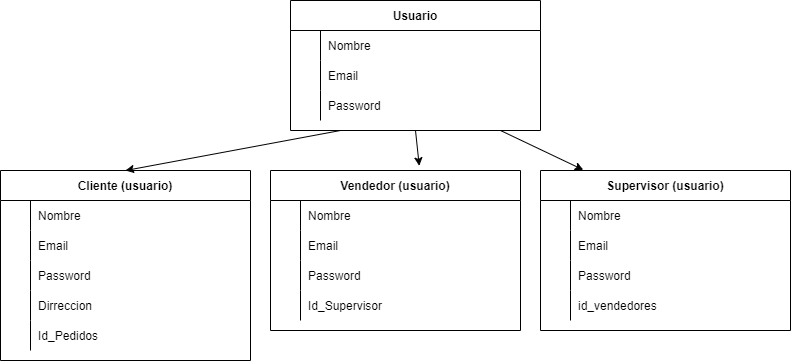
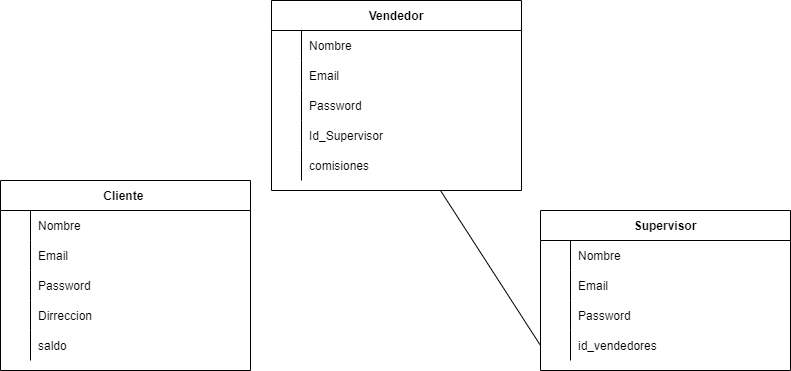
update

diff --git a/Modulo 4/aprendizaje 2/main.py b/Modulo 4/aprendizaje 2/main.py
@@ -1,0 +1,125 @@
+class cliente:
+    def __init__(self, nombre, mail, password, dirrecion, saldo = '0'):
+        self.nombre = nombre
+        self.mail = mail
+        self.password = password
+        self.dirrecion = dirrecion
+        self.saldo = saldo
+    
+    def cambiarDirrecion(self, dirrecion):
+        self.dirrecion = dirrecion
+        print('Dirrecion Cambiada Correctamente')
+
+    def sumarSaldo(self, saldo):
+        self.saldo += saldo
+        print('Saldo Actualizado')
+    
+    def ocuparSaldo(self, monto):
+        if self.saldo >= monto:
+            self.saldo -= monto
+            print('Saldo Descontado')
+            return True
+        else:
+            print('Saldo Insuficiente')
+            return False
+    
+    def __eq__(self, other): ## Basicamente es para que al momento de compararlos si son iguales se vea netamente el correo
+        return self.mail == other.mail
+
+class vendedor:
+    def __init__(self, id_vendedor, nombre, mail, password, id_supervisor):
+        self.id_vendedor = id_vendedor
+        self.nombre = nombre
+        self.mail = mail,
+        self.password = password
+        self.id_supervisor = id_supervisor
+        self.comision = 0
+        self.cant_Ventas = 0
+    
+    def sumarComision(self, monto_Venta):
+        self.comision = monto_Venta*0.02 #Osea el 2%7
+        self.cant_Ventas += 1
+    
+    def changePassword(self, newPassword):
+        self.password = newPassword
+    
+    def cambiarSupervisor(self, id_supervisor):
+        self.id_supervisor = id_supervisor
+
+    def calcularSueldoBruto(self):
+        return 440000 + self.comision + self.cant_Ventas*250
+
+class supervisor:
+    def __init__(self, id_supervisor, nombre, mail, password):
+        self.id_supervisor = id_supervisor
+        self.nombre = nombre
+        self.mail = mail,
+        self.password = password, 
+        self.id_vendedores  = []
+    
+    def asignar_vendedores(self, id_Vendedor):
+        self.id_vendedores.append(id_Vendedor)
+    
+    def rehusar_vendedor(self, id_Vendedor):
+        self.id_vendedores.remove(id_Vendedor)
+        print('Vendedor Removido')
+    
+    def print_id_vendedores(self):
+        for id_vendedores in self.id_vendedores:
+            print(id_vendedores)        
+    
+    def reasignar_vendedor(self, other, id_vendedor): #El self Cede y el other absorve
+        self.rehusar_vendedor(id_vendedor)
+        other.asignar_vendedores(id_vendedor)
+
+
+class producto:
+    def __init__(self, nombre, precio, stock, provedor=''):
+        self.nombre = nombre
+        self.precio = precio
+        self.stock = stock
+        self.provedor = provedor
+        
+    def agregarStock(self, nuevoStock): # se agrega stock y se retorna el nuevo stock
+        self.stock += nuevoStock
+        return self.stock
+    
+    def generarVenta(self, stock_Solicitado):
+        if self.stock >= stock_Solicitado:
+            print('Pedido Confirmado')
+            self.stock -= stock_Solicitado
+            return True
+        else:  
+            print('Stock Insuficiente - Pedido Cancelado')
+            return False
+    
+    def cambiarNombre(self, nuevo_nombre):
+        self.nombre = nuevo_nombre
+        print('Nombre de producto Actualizado.')
+
+    def cambiarProvedor(self, nuevo_provedor):
+        self.provedor = nuevo_provedor
+        print('Provedor Actualizado.')
+
+    def __eq__(self, other):
+        return self.nombre == other.nombre and self.precio == other.precio
+
+
+cliente_a = cliente('juan perez', 'juanito@hot.cl', '123456', 'Por ahi #133')
+cliente_b = cliente('juan peres', 'juanito@hot.cl', '123456789', 'Por ahi #133')
+
+if cliente_a == cliente_b:
+    print('Son iguales ya que tienen el mismo correo')
+else: 
+    print('Son distintos')
+
+vendedor_a = vendedor(1,'Michael Scott', 'michael@dundermifflin.com', '987654321', 1)
+
+vendedor_a.sumarComision(90000)
+print('Sueldo Bruto del vendedor a:', vendedor_a.calcularSueldoBruto())
+
+supervisor_a = supervisor(1,'Dr Simi' , 'simi@simi.cl', 'lomismoperomasbarato')
+supervisor_b = supervisor(1,'Dr ugarte' , 'ugarte@simi.cl', 'laveselasmanos')
+supervisor_a.asignar_vendedores(1)
+
+supervisor_a.reasignar_vendedor(supervisor_b, 1)

diff --git a/Modulo 4/aprendizaje 1/main.py b/Modulo 4/aprendizaje 1/main.py
@@ -1,53 +1,47 @@
-
-class usuario:
-    def __init__(self, nombre, mail, password):
-        self.nombre = nombre
-        self.mail = mail
-        self.password = password
-
-class cliente(usuario):
-    def __init__(self, nombre, mail, password, dirrecion):
+class cliente:
+    def __init__(self, nombre, mail, password, dirrecion, saldo):
         self.nombre = nombre
         self.mail = mail
         self.password = password
         self.dirrecion = dirrecion
-        self.pedidos = []
+        self.saldo = saldo
     
-    def hacerPedidos():
-        #logica interna
-        return True
-
     def cambiarDirrecion(self, dirrecion):
         self.dirrecion = dirrecion
-        return True
-    
-    def anularPedido(self, id_pedido):
-        for pedido in self.pedidos:
-            if pedido['id_pedido'] == id_pedido:
-                pedido.pop()
-                return True
-        return False
+        print('Dirrecion Cambiada Correctamente')
 
-class vendedor(usuario):
+    def sumarSaldo(self, saldo):
+        self.saldo += saldo
+        print('Saldo Actualizado')
+    
+    def ocuparSaldo(self, monto):
+        if self.saldo >= monto:
+            self.saldo -= monto
+            print('Saldo Descontado')
+            return True
+        else:
+            print('Saldo Insuficiente')
+            return False
+        
+
+class vendedor:
     def __init__(self, nombre, mail, password, id_supervisor):
         self.nombre = nombre
         self.mail = mail,
         self.password = password
         self.id_supervisor = id_supervisor
+        self.comision = 0
     
-    def realizarVenta(self, productos , mail_Cliente):
-        #Logica Interna Misteriosa
-        return True
+    def sumarComision(self, monto_Venta):
+        self.comision = monto_Venta*0.02 #Osea el 2%
     
-    def gestionarCambios(self, id_pedido, producto):
-        #Logica Interna
-        return True
+    def changePassword(self, newPassword):
+        self.password = newPassword
     
     def cambiarSupervisor(self, id_supervisor):
-        #logica interna
-        return True
+        self.id_supervisor = id_supervisor
 
-class supervisor(usuario):
+class supervisor:
     def __init__(self, nombre, mail, password):
         self.nombre = nombre
         self.mail = mail,
@@ -55,14 +49,12 @@ class supervisor(usuario):
         self.id_vendedores  = []
     
     def asignar_vendedores(self, id_Vendedor):
-        #logica interna
-        return True
+        self.id_vendedores.append(id_Vendedor)
     
     def rehusar_vendedor(self, id_Vendedor):
-        #logica Interna
-        return True
+        self.id_vendedores.remove(id_Vendedor)
+        print('Vendedor Removido')
     
-    def generar_reportes(self):
-        #logica interna
-        return True
-    
+    def print_id_vendedores(self):
+        for id_vendedores in self.id_vendedores:
+            print(id_vendedores)        
